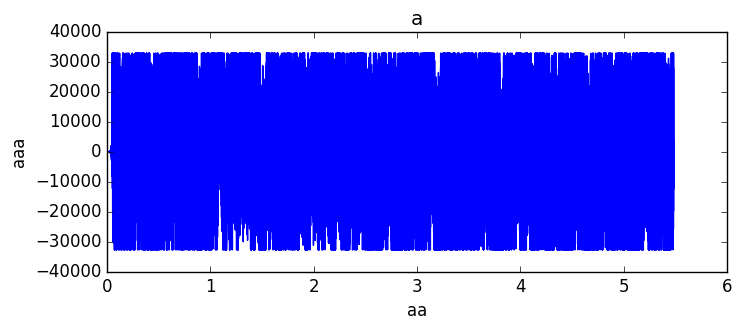
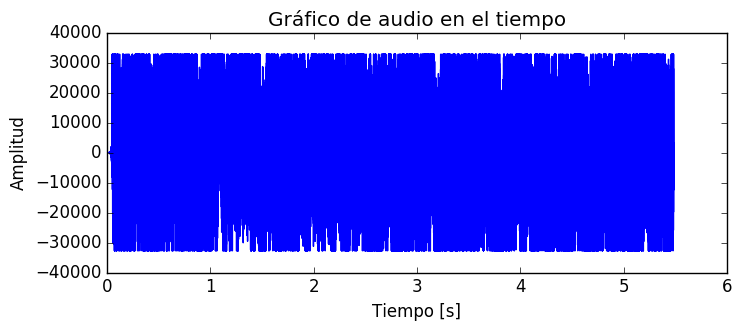
Modify figure titles and labels

diff --git a/signal_conv.py b/signal_conv.py
@@ -9,23 +9,23 @@ import re
 
 ####### Constantes y variables globales #######
 
-TITLE1 = "a"
-TITLE2 = "b"
-TITLE3 = "c"
-TITLE4 = "d"
-TITLE5 = "e"
+TITLE1 = "Gráfico de audio en el tiempo"
+TITLE2 = "Gráfico del audio en el dominio de la frecuencia"
+TITLE3 = "Gráfico del audio en el tiempo usando la transformada inversa"
+TITLE4 = "Gráfico en el dominio de la frecuencia con fft truncada en un 15%"
+TITLE5 = "Gráfico del audio en el tiempo usando la transformada truncada inversa"
 
-XLABEL1 = "aa"
-XLABEL2 = "bb"
-XLABEL3 = "cc"
-XLABEL4 = "dd"
-XLABEL5 = "ee"
+XLABEL1 = "Tiempo [s]"
+XLABEL2 = "Frecuencia [Hz]"
+XLABEL3 = "Tiempo [s]"
+XLABEL4 = "Frecuencia [Hz]"
+XLABEL5 = "Tiempo [s]"
 
-YLABEL1 = "aaa"
-YLABEL2 = "bbb"
-YLABEL3 = "ccc"
-YLABEL4 = "ddd"
-YLABEL5 = "eee"
+YLABEL1 = "Amplitud"
+YLABEL2 = "Amplitud [dB]"
+YLABEL3 = "Amplitud"
+YLABEL4 = "Amplitud [dB]"
+YLABEL5 = "Amplitud"
 
 DPI = 100
 FIGURE_WIDTH = 8
@@ -119,10 +119,10 @@ def processFile(filename):
 	fftTruncadaInversa = fourierInverse(fftTruncada)
 
 	graficar(str(figureCounter) + "-1.png", TITLE1, YLABEL1, XLABEL1, datos, times)
-	graficar(str(figureCounter) + "-2.png", TITLE1, YLABEL1, XLABEL1, abs(fftNormalizada), fftSamples)
-	graficar(str(figureCounter) + "-3.png", TITLE1, YLABEL1, XLABEL1, fftNormalizadaInversa, times)
-	graficar(str(figureCounter) + "-4.png", TITLE1, YLABEL1, XLABEL1, abs(fftTruncada), fftSamples)
-	graficar(str(figureCounter) + "-5.png", TITLE1, YLABEL1, XLABEL1, fftTruncadaInversa, times)
+	graficar(str(figureCounter) + "-2.png", TITLE2, YLABEL2, XLABEL2, abs(fftNormalizada), fftSamples)
+	graficar(str(figureCounter) + "-3.png", TITLE3, YLABEL3, XLABEL3, fftNormalizadaInversa, times)
+	graficar(str(figureCounter) + "-4.png", TITLE4, YLABEL4, XLABEL4, abs(fftTruncada), fftSamples)
+	graficar(str(figureCounter) + "-5.png", TITLE5, YLABEL5, XLABEL5, fftTruncadaInversa, times)
 
 	write(filename[:len(filename)-4] + "-inversed.wav", frecuencia, fftTruncadaInversa.astype(datos.dtype))
 
